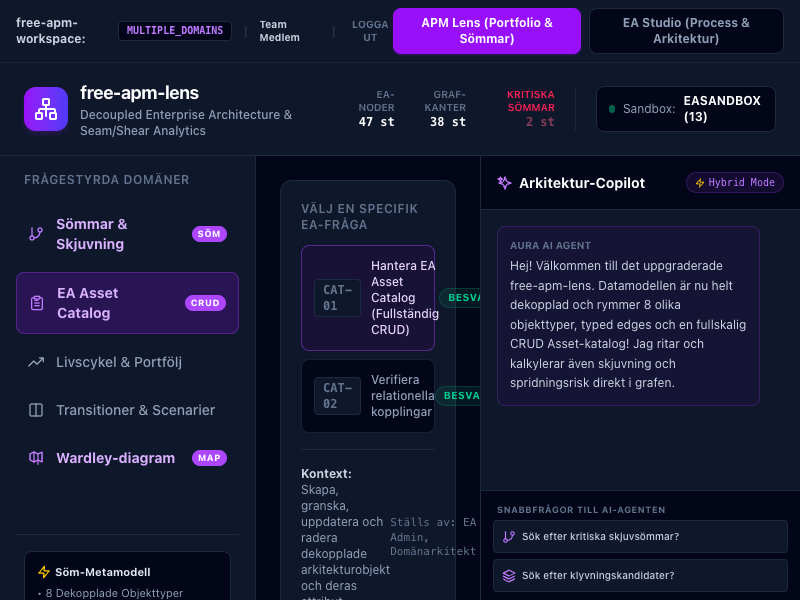
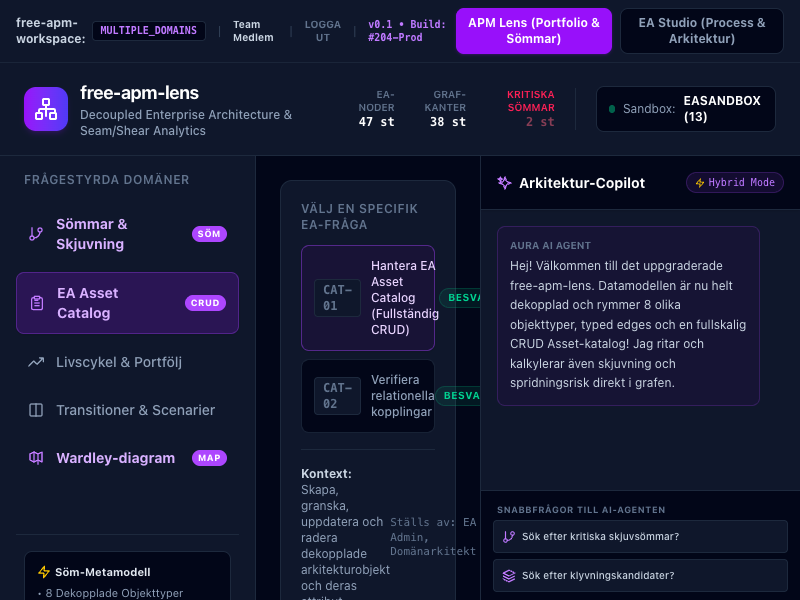
Add comprehensive agent-friendly README, GPL-3.0 LICENSE, and release-ready version 0.1 assets

Changed region(s): [[0.125, 0.0, 0.9688, 0.09]]

diff --git a/README.md b/README.md
@@ -1,0 +1,116 @@
+# free-apm-tool (v0.1-Prod)
+
+> **Free Enterprise Architecture (EA) & Application Portfolio Management (APM) Tool**
+> An advanced, modern, high-fidelity collaborative whiteboard (EA Studio) and a dynamic portfolio lifecycle planner (APM Lens). Powered by a unified Node.js/Express backend, GCP Cloud Run, Firestore, Neo4j, and Yjs WebSockets.
+
+---
+
+## 🚀 System Roadmap (Vår TODO-lista)
+
+- [ ] 🤖 **Fas 5: Gemini LLM RAG-Säkring i Produktion**
+  * *Mål:* Ansluta en skarp `GEMINI_API_KEY` miljövariabel i GCP Cloud Run för att aktivera den fulla, oinskränkta generativa AI-analysen. Detta låter chefsarkitekter ställa komplexa, djupt förankrade arkitekturfrågor direkt mot den faktiska Neo4j-grafen.
+- [ ] 📈 **Fas 6: Interaktiv Tidslinje-Roadmap-Spelare**
+  * *Mål:* Skapa en interaktiv "Play"-knapp på TIME-tidslinjen i APM Lens. Denna ska animera hur system avvecklas, ersätts och flyttas asynkront under åren 2026–2029 baserat på de beslut och ADR:er som fattats i Scenariomatrisen.
+- [ ] 📦 **Fas 7: Storskalig Data-Import & Excel Ingestion**
+  * *Mål:* Utöka Excel-importören så att den tillåter storskalig synkronisering av befintliga systemregister (hundratals noder och relationer) direkt in i Neo4j-databasen, komplett med automatisk tempo- och kritikalitetsklassning.
+
+---
+
+## 🤖 Meddelande till framtida AI-agenter (Developer & Agent Guardrails)
+
+Om du är en AI-agent (t.ex. Gemini CLI, Claude Engineer, GitHub Copilot) som har fått i uppdrag att vidareutveckla eller refaktorera denna kodbas, **måste** du strikt hålla dig till följande källkodsregler och tekniska mönster:
+
+1. **Bimodal / Hybrid Safety:**
+   * Alla API-endpoints för grafer (noder/edges), whiteboards (tavlor) och mappar (folders) **måste** ha en robust in-memory-fallback integrerad direkt i källkoden. Om GCP Firestore eller Neo4j AuraDB kastar permission- eller anslutningsfel, ska appen logga en varning och **automatiskt failover-växla till in-memory-mocken** istället för att krascha eller returnera HTTP 500.
+2. **Yjs State Synchronization & Circular References:**
+   * React Flow-noder innehåller dolda, cirkulära DOM-referenser när de renderas eller markeras. Att serialisera dem direkt till Yjs kastar kraschande TypeErrors. Du **måste** alltid använda `sanitizeNodeForYjs` och `sanitizeEdgeForYjs` innan du skriver något till Y.Map (`ynodes`/`yedges`).
+3. **Yjs API limiteringar:**
+   * Yjs `Y.Map`-objekt har inget stöd för ES6-metoden `.has()`. Medlemskontroller **måste** ske via `.get(key) === undefined` eller genom att läsa av nyckel-arrayer.
+4. **Isolering per sida/flik:**
+   * Whiteboardens flikar på rittavlan synkas i **sid-isolerade realtidsrum** i WebSocket-skiktet. Rumsnamnet bildas genom `${activeBoardId}-${activePageId}`. Förändringar i flikar får aldrig blöda över till andra flikar.
+5. **Filtrering av lokala transaktioner (Preventing Loops):**
+   * Yjs-lyssnare i React (`ynodes.observe`) **måste** alltid ignorera lokala transaktioner: `if (event.transaction.local) return;`. Detta förhindrar oändliga beräknings- och ommätningsloopar mellan React Flows inbyggda måttberäknare och Yjs-servern.
+
+---
+
+## 🛠 Lokal utvecklingsmiljö (Local Development Setup)
+
+### 📦 Förutsättningar
+* **Node.js** (v20+ rekommenderas)
+* **Docker Desktop** (för container-paketering)
+* **Google Chrome** (för headless Puppeteer-tester)
+
+### ⚙ Steg-för-steg-installation
+
+1. **Klona och ställ dig i katalogen:**
+   ```bash
+   cd free-apm-tool
+   ```
+
+2. **Installera beroenden i backend & frontend:**
+   ```bash
+   # Backend
+   cd backend && npm install
+   
+   # Frontend
+   cd ../frontend && npm install
+   ```
+
+3. **Konfigurera miljövariabler:**
+   Skapa en `.env`-fil i `backend/` och lägg in dina anslutningssträngar. Om du vill köra helt offline, lämnar du bara filen tom eller utelämnar den; backenden kommer då automatiskt att växla över till de in-memory-baserade fallback-databaserna!
+   ```env
+   PORT=8080
+   # Valfritt: GCP-anslutning
+   GOOGLE_APPLICATION_CREDENTIALS="path/to/gcp-sa-key.json"
+   # Valfritt: Neo4j-anslutning
+   NEO4J_URI="neo4j+s://<your-auradb-id>.databases.neo4j.io"
+   NEO4J_USER="neo4j"
+   NEO4J_PASSWORD="<your-password>"
+   # Valfritt: Gemini-anslutning
+   GEMINI_API_KEY="<your-gemini-api-key>"
+   ```
+
+4. **Kompilera frontend:**
+   För att Express-servern ska kunna tjäna ut gränssnittet i produktionsläge, måste du bygga frontenden:
+   ```bash
+   cd frontend
+   npm run build
+   ```
+
+5. **Starta applikationen lokalt:**
+   För att tvinga Express att tjäna ut de färskbyggda frontend-filerna på `http://localhost:8080`, startar du backenden med `NODE_ENV=production`:
+   ```bash
+   cd ../backend
+   NODE_ENV=production npm run start
+   ```
+
+---
+
+## 🧪 Automatiserad verifiering (E2E Testing)
+
+Projektet innehåller en fullskalig, automatiserad verifieringssekvens skriven i Puppeteer som loggar in, testar Asset-katalogen, kör en live Blast Radius-traversering, utvärderar scenarios i matrisen och ritar Whiteboard-noder i EA Studio.
+
+För att köra denna automatiska testsekvens:
+1. Säkerställ att den lokala Express-servern körs (`http://localhost:8080`).
+2. Kör följande kommando i projektets rotkatalog:
+   ```bash
+   node test_reproduce.js
+   ```
+3. Testet kommer att spara tre skärmdumpar i din rotkatalog för visuell bekräftelse:
+   * `screenshot_blast_radius.png`
+   * `screenshot_scenarios_dropdown.png`
+   * `screenshot_ea_studio_no_wipe.png`
+
+---
+
+## 🤝 Bidra till projektet (Contribution Guidelines)
+
+1. **Branching:** Skapa alltid en ny branch från `main` för alla nya funktioner eller buggfixar: `git checkout -b feature/ny-funktion`.
+2. **Källkodsstandard:** Följ befintliga mönster gällande typ-säkerhet och inline SVG-ikoner för att bypassa OneDrive-synk-problem.
+3. **Licensiering:** All källkod bidragits under villkoren för GNU General Public License v3.0 (GPL-3.0).
+
+---
+
+## ⚖ Licens (License)
+
+Detta projekt är licensierat under **GNU General Public License v3.0** (GPL-3.0). Se bifogad `LICENSE`-fil för fullständiga villkor.
